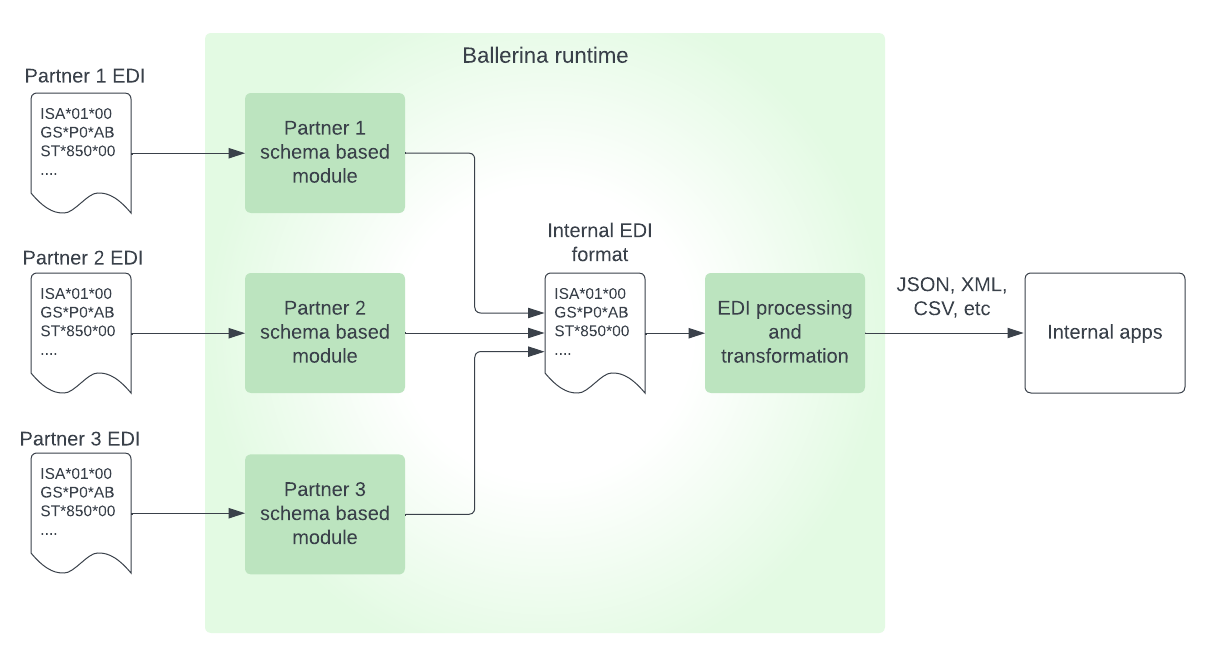
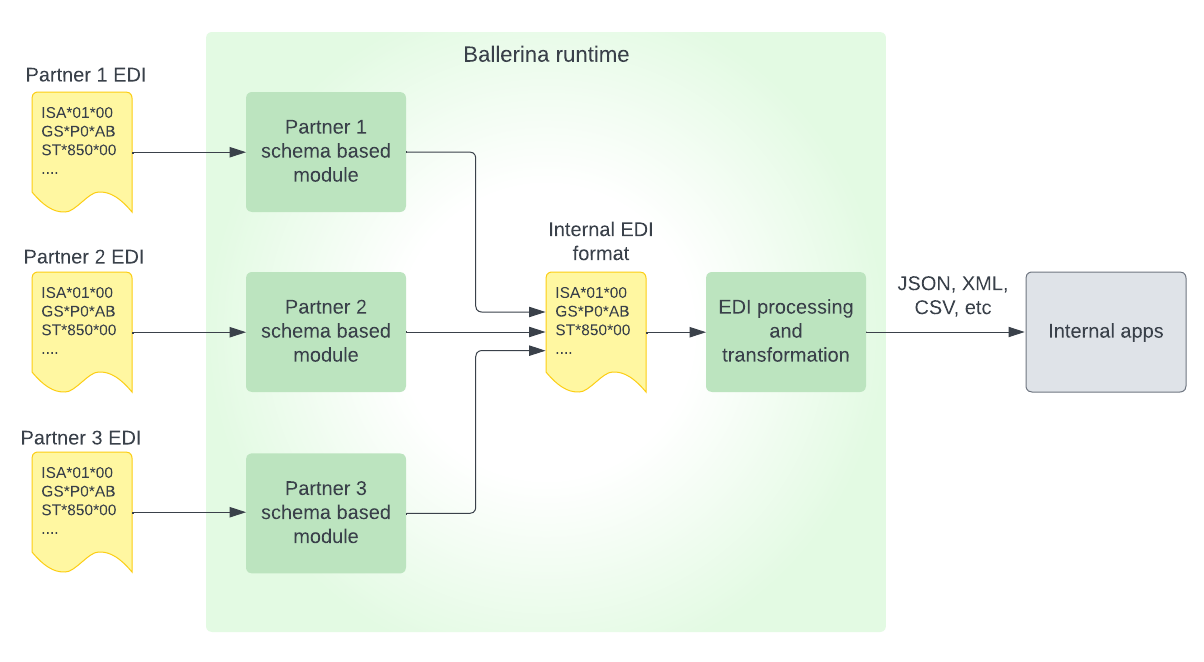
Add sample links and image improvements

diff --git a/components/b2b/code/Code.js b/components/b2b/code/Code.js
@@ -253,8 +253,8 @@ export default function UseCases(props) {
                                         (x12.frontmatter.url && x12.frontmatter.url !== '') ?
                                             <div className={styles.dVersion}>
                                                 <a href={x12.frontmatter.url} className={styles.cDownload} target="_blank" rel="noreferrer">
-                                                    {/* <Image src={`${prefix}/images/github-grey.svg`} width={20} height={20} alt="View code on GitHub" /> */}
-                                                    Get started with WSO2 Choreo x12 for free
+                                                    <Image src={`${prefix}/images/github-grey.svg`} width={20} height={20} alt="View code on GitHub" />
+                                                    View code on Github
                                                 </a>
                                             </div>
                                             : null

diff --git a/components/b2b/intro/Intro.js b/components/b2b/intro/Intro.js
@@ -48,7 +48,7 @@ export default function Intro() {
                     </div>
                 </Col>
                 <Col xs={12} lg={7} className={styles.introImg} style={{width:'50%'}}>
-                    <img src={`${prefix}/images/usecases/b2b-intro.png`} alt="Position Ballerina" />
+                    <img src={`${prefix}/images/edi-intro.png`} alt="Position Ballerina" />
                 </Col>
             </Row>
             </Container>

diff --git a/components/b2b/code/b2b-bbe/ballerina-is-edifact.md b/components/b2b/code/b2b-bbe/ballerina-is-edifact.md
@@ -1,7 +1,7 @@
 ---
 title: 'EDIFACT? Ballerina is EDIFACT'
 description: With Ballerina's built-in support for EDIFACT, organizations can easily handle EDIFACT messages, process complex data structures, and exchange information with partner networks. By leveraging Ballerina's intuitive features, developers can streamline EDIFACT integration, ensuring smooth communication with trading partners.
-url: 'https://github.com/chathurace/b2b-samples/blob/main/simple-edi-schema/main.bal'
+url: 'https://github.com/chathurace/b2b-samples-fork/blob/main/ballerina-edifact/main.bal'
 ---
 ```
 import ballerina/io;

diff --git a/components/b2b/code/b2b-bbe/ballerina-is-x12.md b/components/b2b/code/b2b-bbe/ballerina-is-x12.md
@@ -1,6 +1,7 @@
 ---
 title: 'X12? Ballerina is X12'
 description: Ballerina's built-in support for X12 messages empowers organizations to seamlessly work with their partner networks using the widely adopted X12 standard. Developers can easily process, parse, and generate X12 messages, ensuring efficient data exchange between partner systems.
+url: 'https://github.com/chathurace/b2b-samples-fork/blob/main/ballerina-x12/main.bal'
 ---
 ```
 import ballerina/io;
